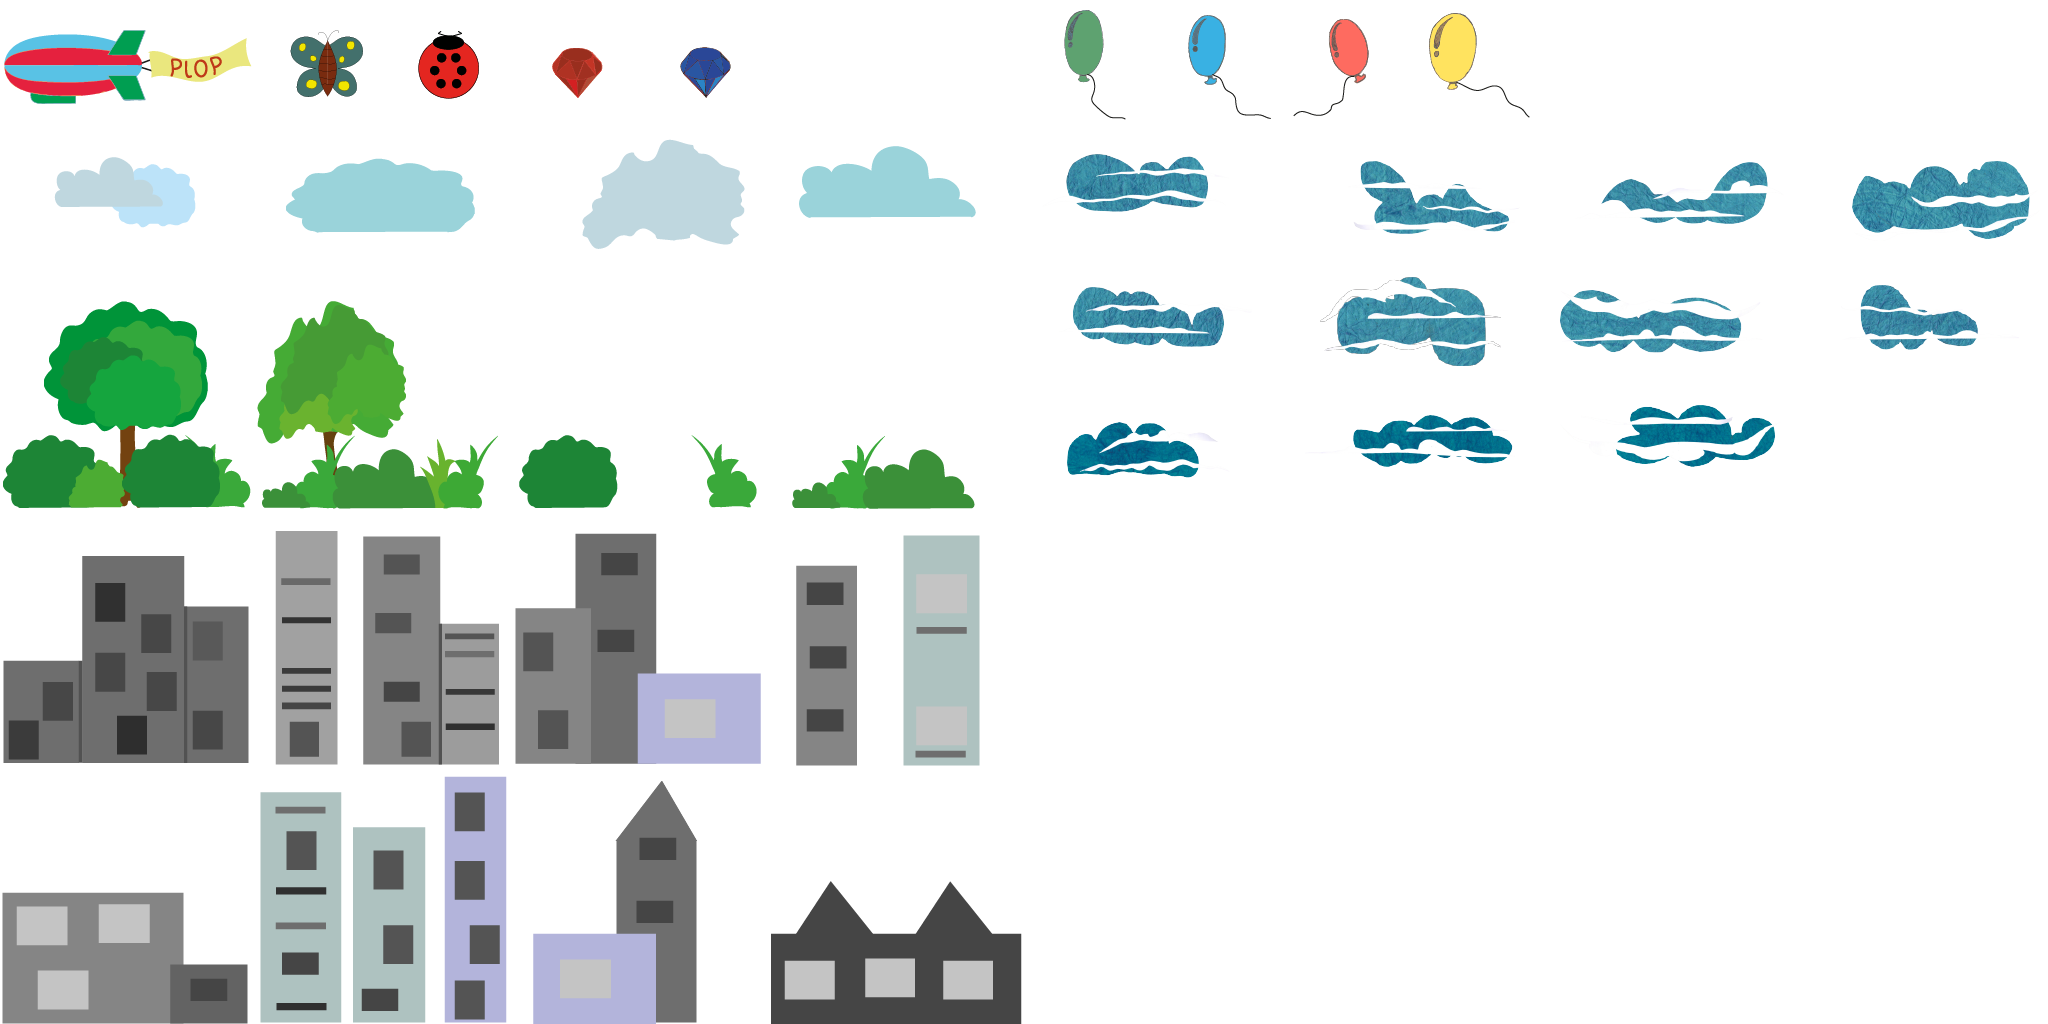
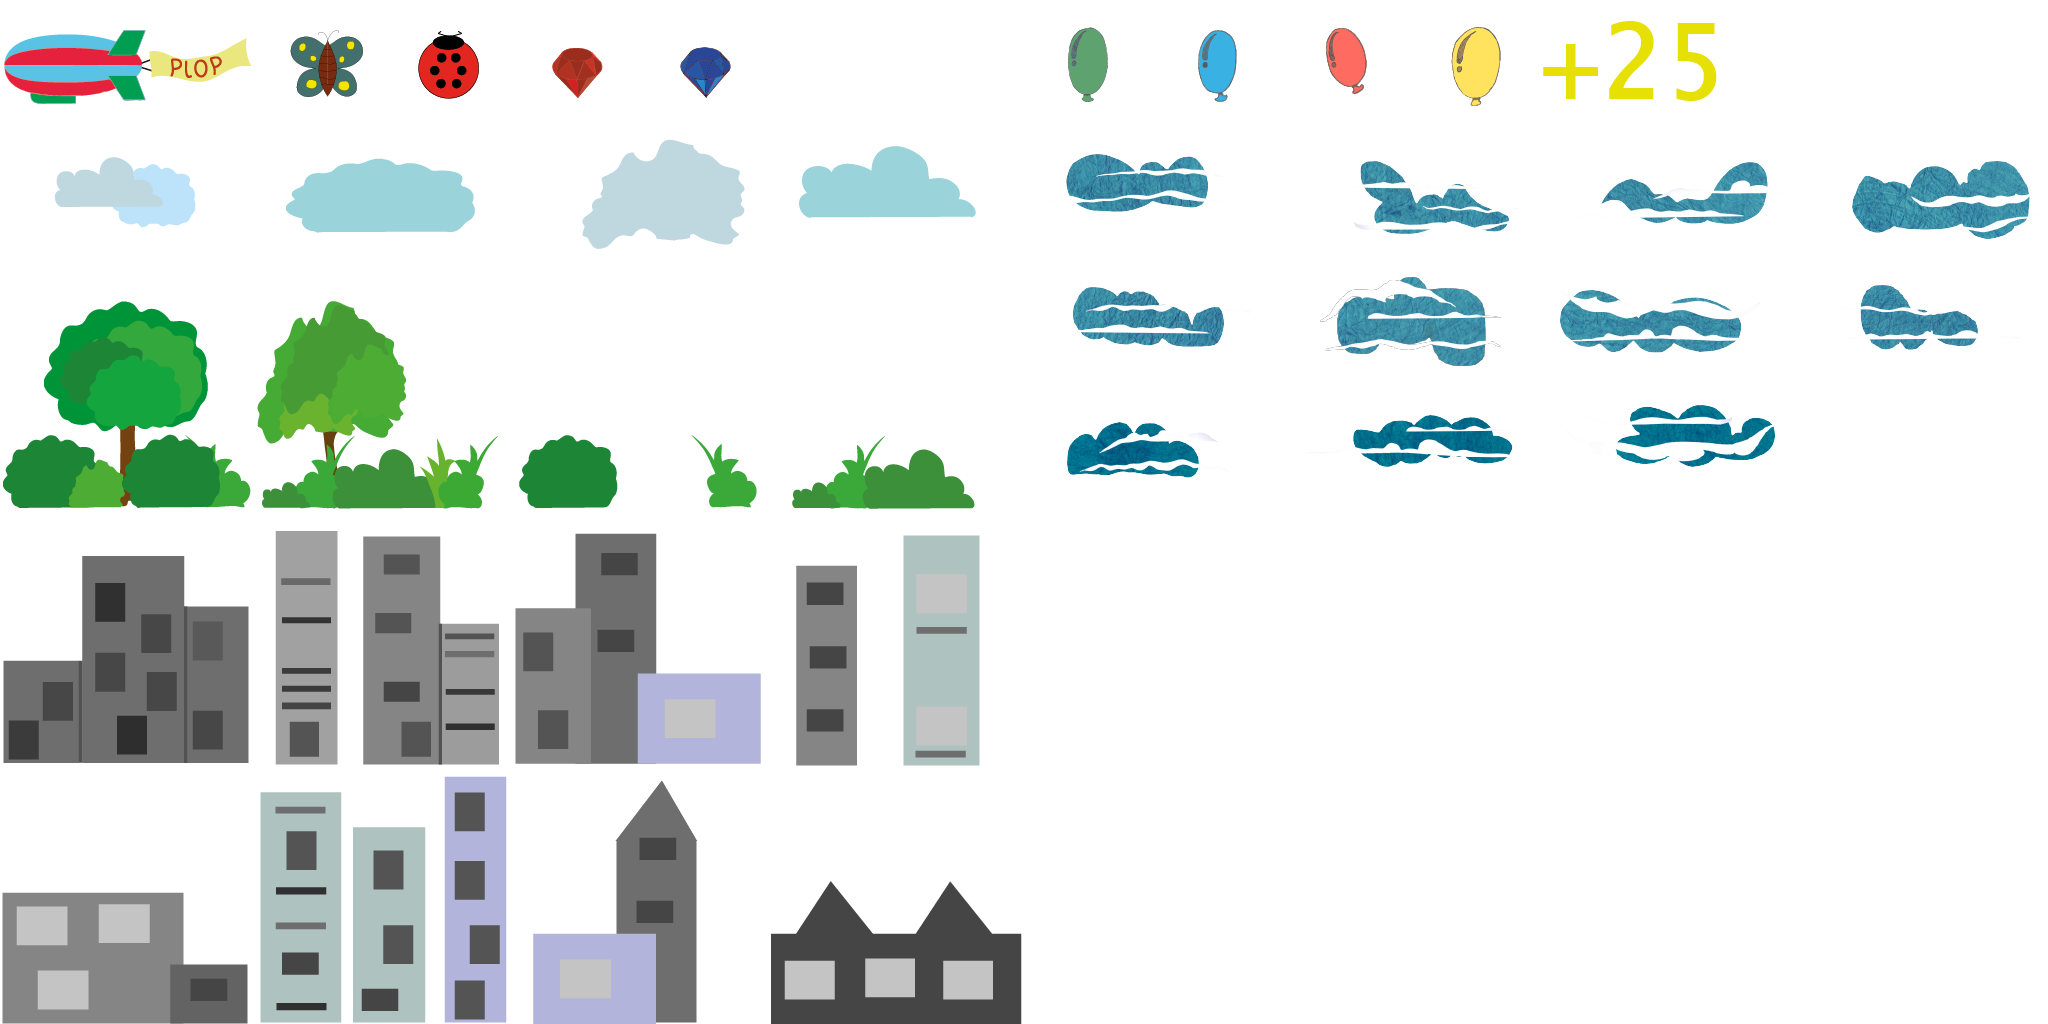
Increased size and proper bonus sprite

Changed region(s): [[0.5, 0.0, 0.8438, 0.0938]]

diff --git a/html5/src/content.c b/html5/src/content.c
@@ -398,22 +398,22 @@ Sprite g_food_sprites[4] = {
     {
         (256.0f + 0.5f)/2048.0f, (000.0f + 0.5f)/1024.0f,
         (383.0f + 0.5f)/2048.0f, (127.0f + 0.5f)/1024.0f,
-        0.125f, 0.125f,
+        0.175f, 0.175f,
     },
     {
         (384.0f + 0.5f)/2048.0f, (000.0f + 0.5f)/1024.0f,
         (511.0f + 0.5f)/2048.0f, (127.0f + 0.5f)/1024.0f,
-        0.125f, 0.125f,
+        0.175f, 0.175f,
     },
     {
         (512.0f + 0.5f)/2048.0f, (000.0f + 0.5f)/1024.0f,
         (639.0f + 0.5f)/2048.0f, (127.0f + 0.5f)/1024.0f,
-        0.125f, 0.125f,
+        0.175f, 0.175f,
     },
     {
         (640.0f + 0.5f)/2048.0f, (000.0f + 0.5f)/1024.0f,
         (767.0f + 0.5f)/2048.0f, (127.0f + 0.5f)/1024.0f,
-        0.125f, 0.125f,
+        0.175f, 0.175f,
     }
 };
 
@@ -445,35 +445,35 @@ Sprite g_obstacle_sprites[5] = {
     {
         (000.0f + 0.5f)/2048.0f, (000.0f + 0.5f)/1024.0f,
         (255.0f + 0.5f)/2048.0f, (127.0f + 0.5f)/1024.0f,
-        0.5f, 0.25f,
+        0.7f, 0.35f,
     },
     {
         (1024.0f + 0.5f)/2048.0f, (000.0f + 0.5f)/1024.0f,
         (1151.0f + 0.5f)/2048.0f, (127.0f + 0.5f)/1024.0f,
-        0.25f, 0.25f,
+        0.35f, 0.35f,
     },
     {
         (1152.0f + 0.5f)/2048.0f, (000.0f + 0.5f)/1024.0f,
         (1279.0f + 0.5f)/2048.0f, (127.0f + 0.5f)/1024.0f,
-        0.25f, 0.25f,
+        0.35f, 0.35f,
     },
     {
         (1280.0f + 0.5f)/2048.0f, (000.0f + 0.5f)/1024.0f,
         (1407.0f + 0.5f)/2048.0f, (127.0f + 0.5f)/1024.0f,
-        0.25f, 0.25f,
+        0.35f, 0.35f,
     },
     {
         (1408.0f + 0.5f)/2048.0f, (000.0f + 0.5f)/1024.0f,
         (1535.0f + 0.5f)/2048.0f, (127.0f + 0.5f)/1024.0f,
-        0.25f, 0.25f,
+        0.35f, 0.35f,
     },
 };
 
 Sprite g_bonus[1] = {
     {
-        (1024.0f + 0.5f)/2048.0f, (000.0f + 0.5f)/1024.0f,
-        (1151.0f + 0.5f)/2048.0f, (127.0f + 0.5f)/1024.0f,
-        0.25f, 0.25f,
+        (1536.0f + 0.5f)/2048.0f, (000.0f + 0.5f)/1024.0f,
+        (1727.0f + 0.5f)/2048.0f, (127.0f + 0.5f)/1024.0f,
+        0.1875f, 0.125f,
     },
 };
 

diff --git a/html5/src/game.c b/html5/src/game.c
@@ -106,7 +106,7 @@ int LoadObstacle(int world_slice, Entity *entities, int n_entities)
         (const Entity){&g_obstacle_sprites[rand() % 5], world_slice*4000 - 1000, KAGE_UP_Y, ENTITY_TYPE_OBSTACLE},
         (const Entity){&g_obstacle_sprites[rand() % 5], world_slice*4000 - 1000, KAGE_UP_Y, ENTITY_TYPE_NULL}
     };
-    if(world_slice > 4) {
+    if(world_slice > 6) {
         es[0] = (const Entity){
             &g_obstacle_sprites[rand() % 5],
             world_slice*4000 - 1100 + (rand() % 300),
@@ -484,7 +484,7 @@ void GameStateUpdate(GameState* game_state, GameInput game_input)
             if(obstacle->type == ENTITY_TYPE_OBSTACLE || obstacle->type == ENTITY_TYPE_OBSTACLE_MOVING) {
                 int obstacle_x = obstacle->x - obstacle_plane->offset_x;
                 int obstacle_y = obstacle->y - obstacle_plane->offset_y;
-                int obstacle_w = (obstacle->sprite->w > 0.3f) ? 350 : 175;
+                int obstacle_w = (obstacle->sprite->w > 0.45f) ? 475 : 185;
                 if(abs(player_entity->x - obstacle_x) < obstacle_w && abs(player_entity->y - obstacle_y) < 20) {
                     game_state->play_state = PLAY_STATE_DYING;
                     game_state->player_kf_idx = 0;
